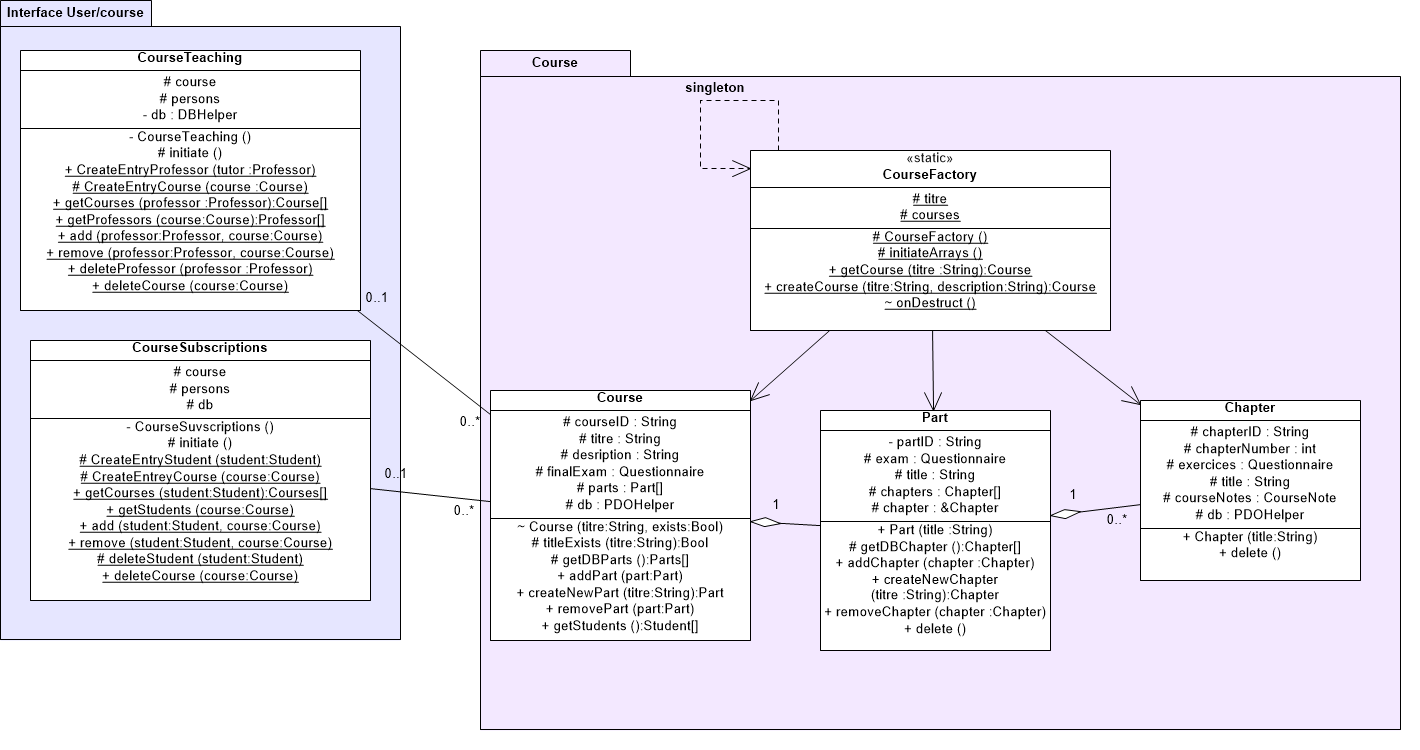
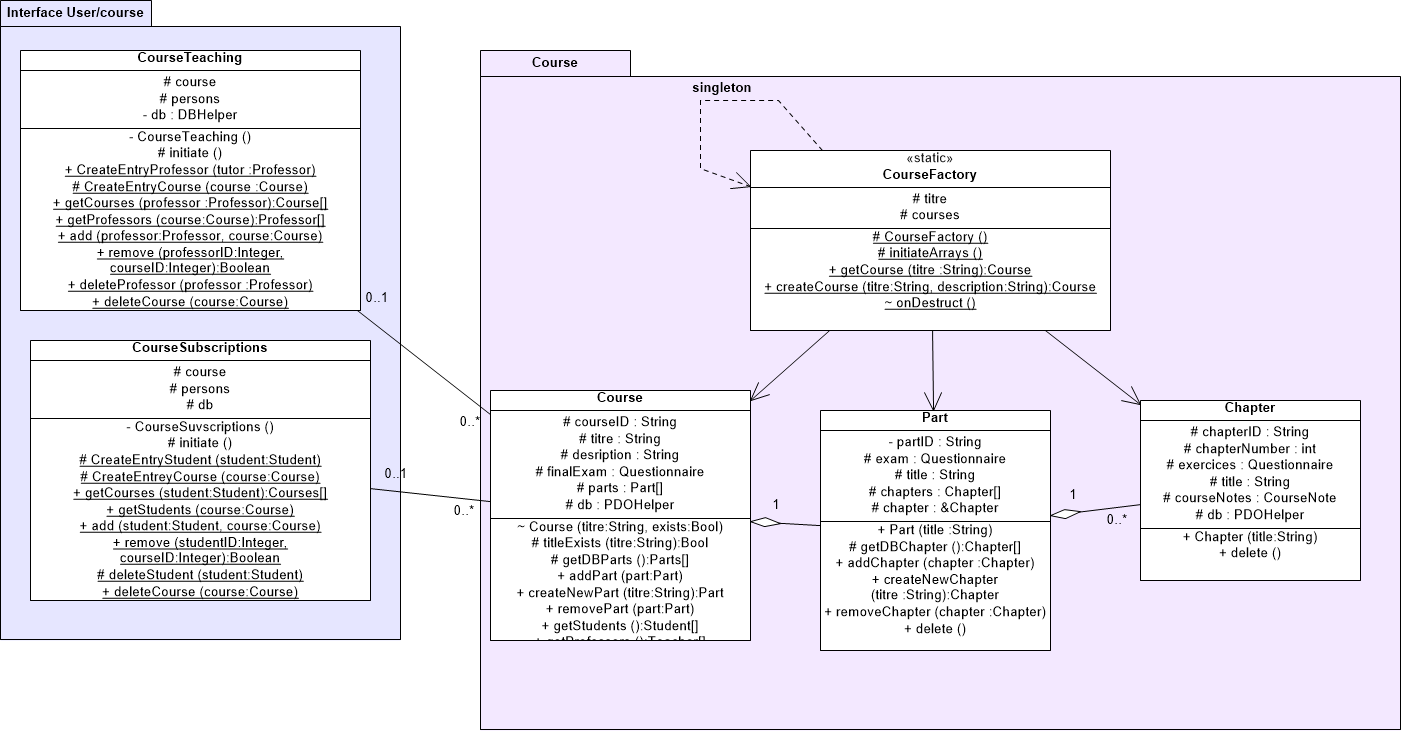
ajout de la récupération des notes, ajout de la récupération de la liste des titres de cours

diff --git a/src/application/models/CourseSubstcription.php b/src/application/models/CourseSubstcription.php
@@ -126,6 +126,16 @@ class CourseSubstcription {
         }
     }
     
+    
+    public static function getMark($student,$course){  
+        $query="SELECT note FROM `finalnote` WHERE courseID =".$course->courseID()." AND studentID =".$student->studentID();
+        $res=CourseSubstcription::$db->query($query);
+        $fetch=$res->fetch(PDO::FETCH_ASSOC);
+        $mark=$fetch["note"];
+        settype($mark, "int");
+        return $mark;
+    }
+    
     public static function remove($studentID,$courseID){ 
         try{
             $indice=array_search($studentID, CourseSubstcription::$courses[$courseID]);

diff --git a/src/application/models/CourseFactory.php b/src/application/models/CourseFactory.php
@@ -67,6 +67,14 @@ class CourseFactory {
         
     }
     
+    public static function getCoursesList(){
+        $db=  PDOHelper::getInstance();
+        $query="Select title From Course;";
+        $res=$db->query($query);
+        $fetch=$res->fetchall(PDO::FETCH_COLUMN,"title");
+        return $fetch;
+    }
+    
     //utilisée pour supprimer du tableau les instances de Course qui ne sont plus utilisées.
     public static function onDestruct($id){       
         

diff --git a/src/application/models/Student.php b/src/application/models/Student.php
@@ -66,6 +66,10 @@ class Student extends Person implements Corrector {
         
         //Suppression de l'etudiant en BDD - Detruit la classe
         
+        public function getMark($course){ 
+            return CourseSubstcription::getMark($this,$course);
+        }
+        
         public function delete(){  
             CourseSubstcription::deleteStudent($this);
             $this->db->exec("DELETE FROM Student WHERE studentID ='".$this->studentID."'"); 

diff --git a/src/application/models/Course.php b/src/application/models/Course.php
@@ -162,7 +162,10 @@ class Course {
         public function getProfessors(){
             return CourseSubstcription::getProfessors($this);
         }
-        
+             
+        public function getMark($student){ 
+            return CourseSubstcription::getMark($student,$this);
+        }
         
         
         //Suppression du cours en BDD
